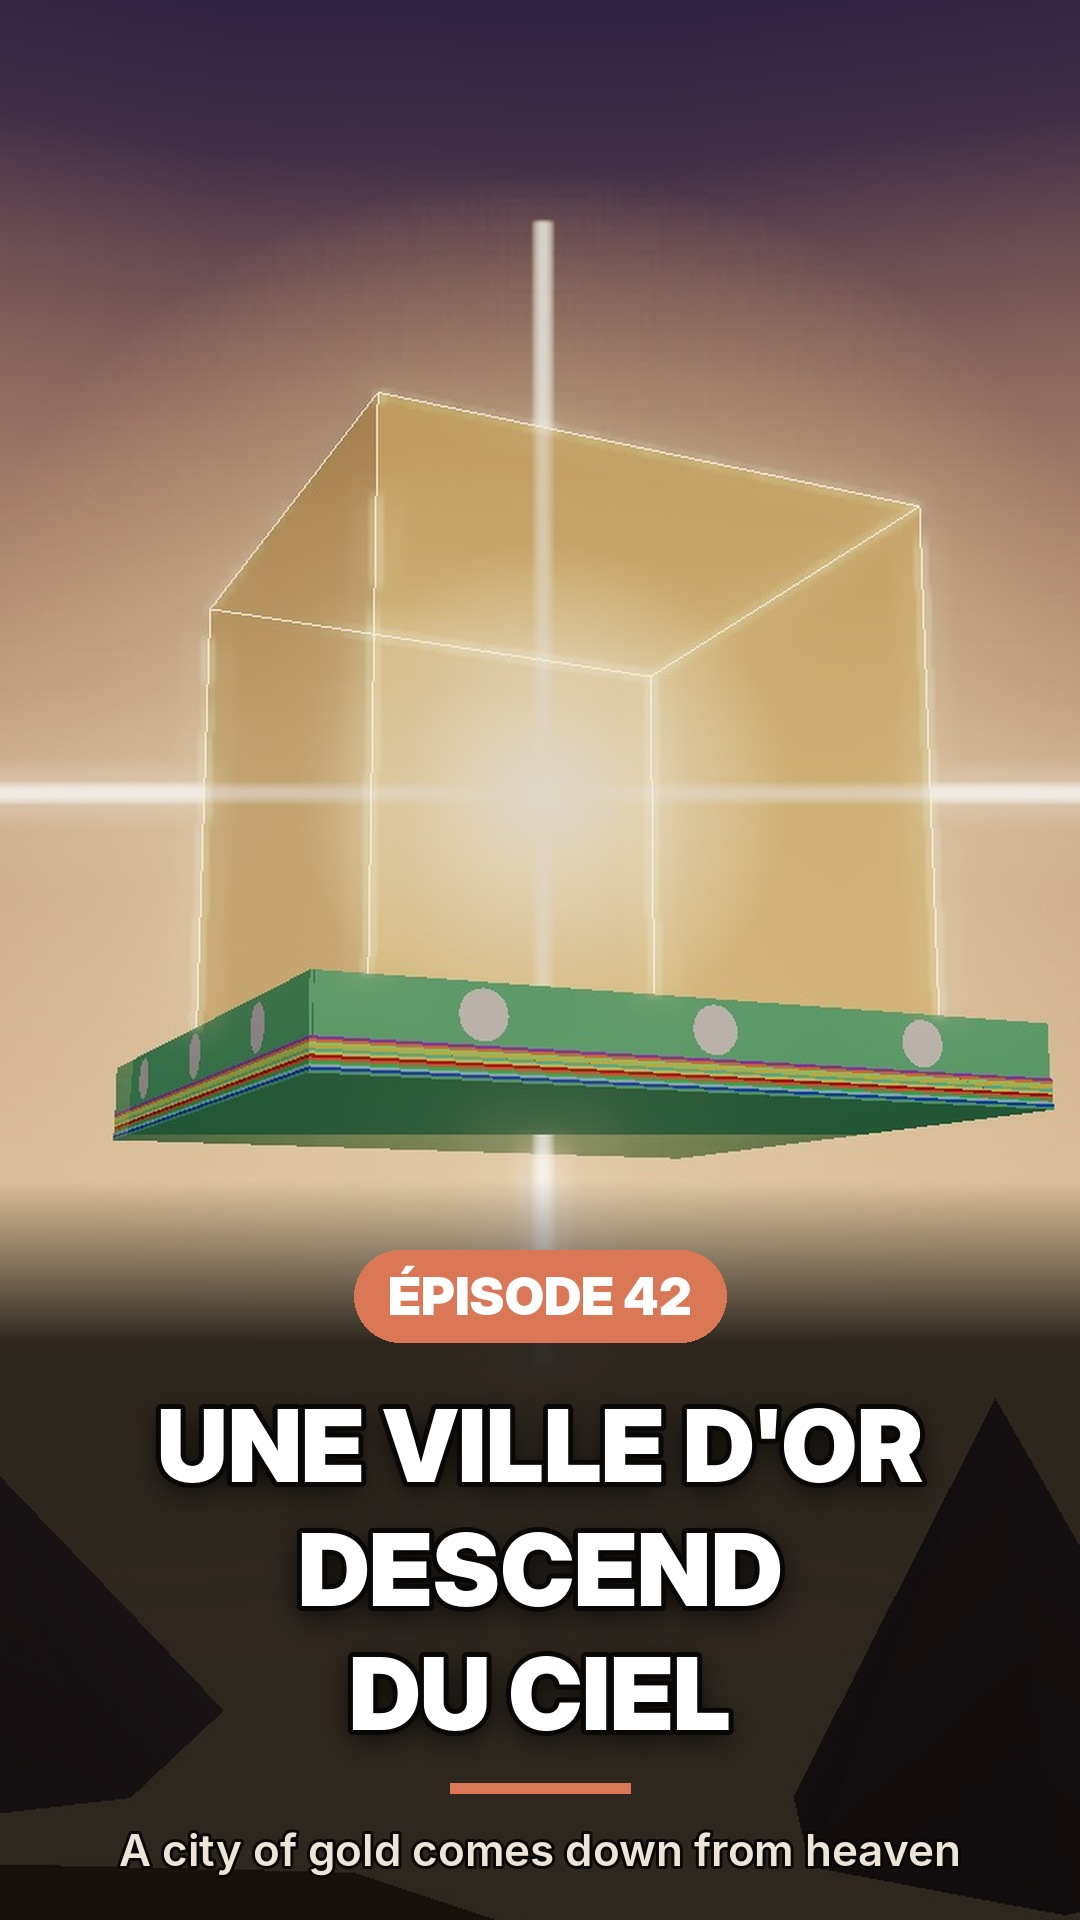
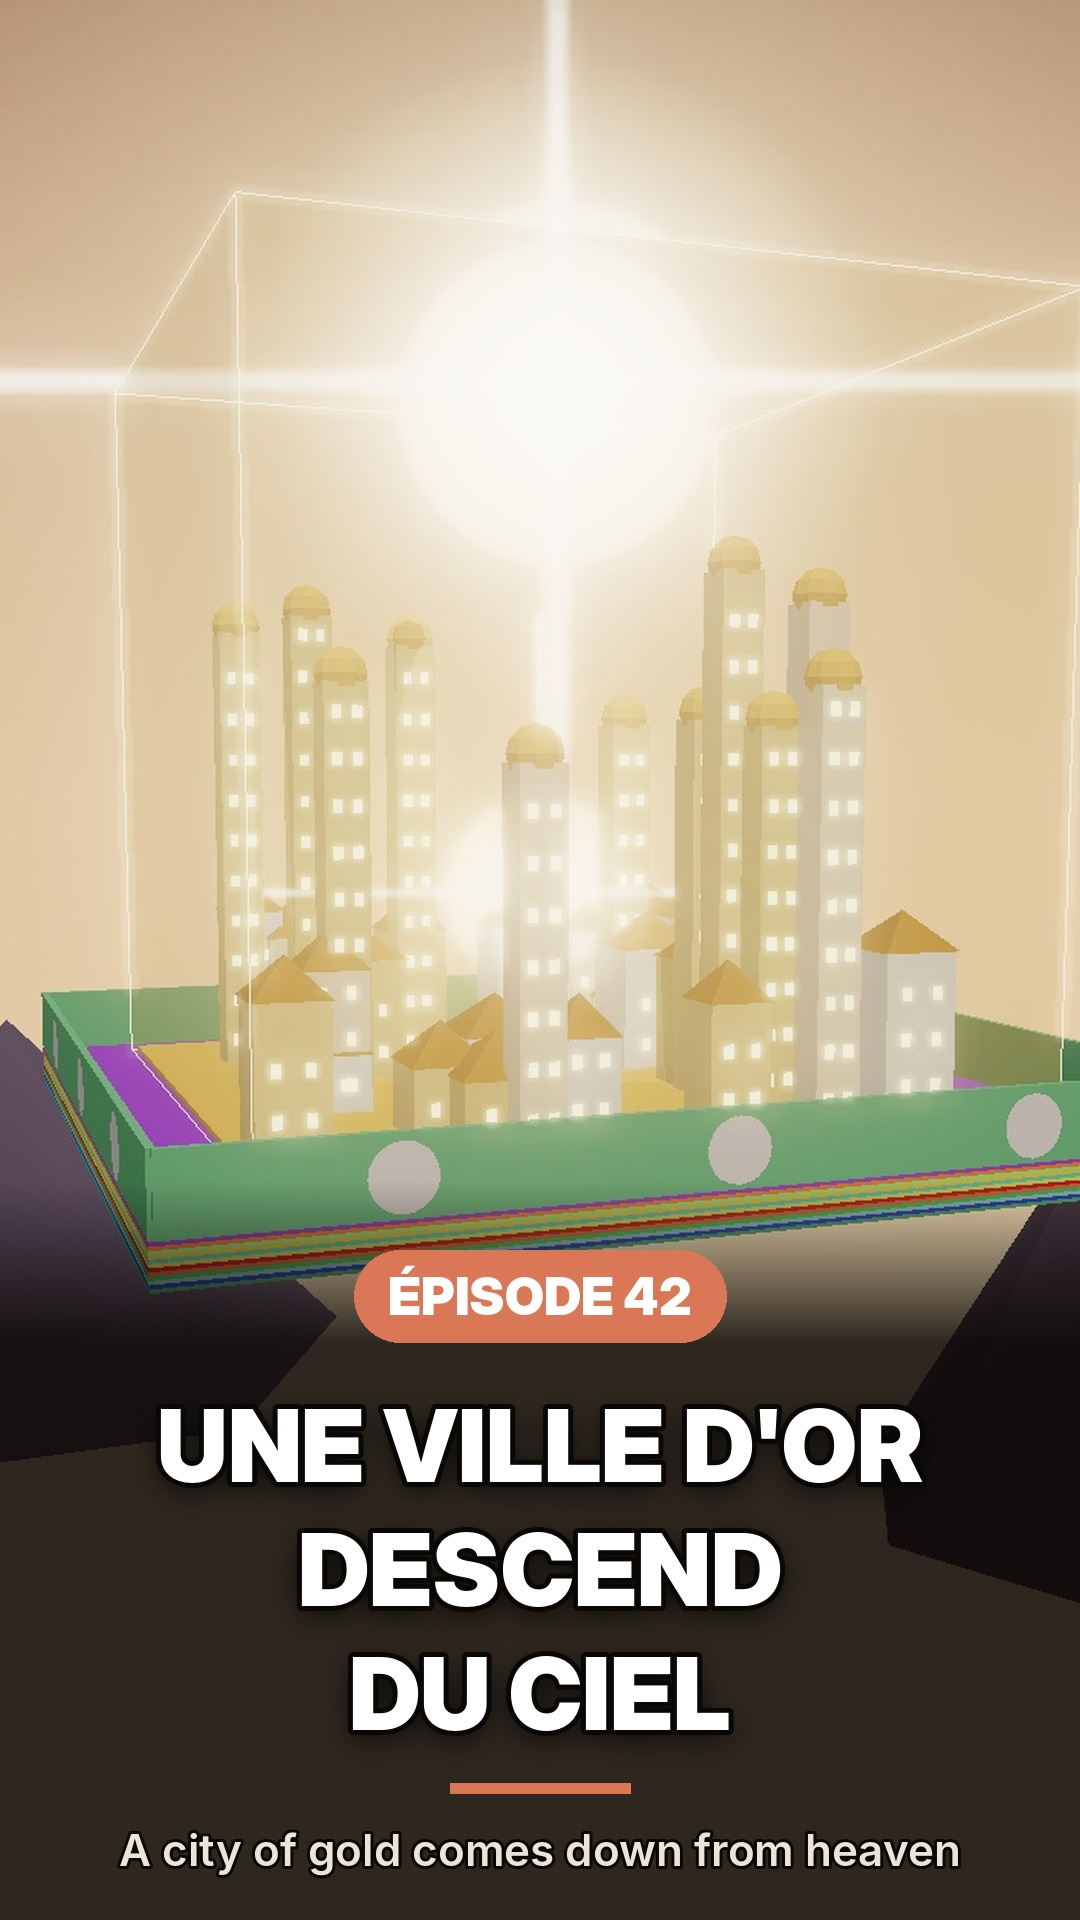
Ep42 : couverture refaite avec la ville visible dans le cube (maisons, tours, fenêtres éclairées)
Claude-Session: https://claude.ai/code/session_01MdC9EGaBDjoz67bNkp4Ljj

diff --git a/ep42/web/body.js b/ep42/web/body.js
@@ -363,9 +363,23 @@ SETS.fin = () => {
 // ---------- couverture : la ville d'or descend au-dessus des nuages
 SETS.cover = () => {
   const B = mountainSet({ bloom: [0.6, 0.5, 0.82] }); const { scene, cam } = B;
-  const city = makeCity(6); city.position.set(0, 3.2, -16); city.rotation.y = 0.5; scene.add(city);
-  const g = glowStar(14, 0xffe8a0); g.position.set(0, 7, -16.5); scene.add(g);
-    return { ...B, update() { cam.position.set(1.4, 1.5, 3.6); cam.fov = 56; cam.updateProjectionMatrix(); cam.lookAt(0, 5.0, -16); } };
+  const city = makeCity(6, { cubeOp: 0.22 }); city.position.set(0, 3.2, -16); city.rotation.y = 0.5; scene.add(city);
+  // la ville a l'interieur du cube : rues d'or, maisons et tours aux fenetres eclairees
+  const town = new THREE.Group(); town.position.y = 0.36; city.add(town);
+  town.add(at(box(5.9, 0.04, 5.9, M(0xffd870, { emissive: new THREE.Color(0x6a4a10) })), 0, 0.02, 0));
+  const win = G(0xfff0b0, 1.6);
+  for (let i = 0; i < 70; i++) {
+    const x = (hash(i * 3) - 0.5) * 5.2, z = (hash(i * 7) - 0.5) * 5.2; if (Math.abs(x) < 0.5 || Math.abs(z) < 0.5) continue;
+    const tall = hash(i * 11) > 0.8, w = tall ? 0.35 : 0.45 + hash(i) * 0.3, h = tall ? 2.2 + hash(i * 5) * 2 : 0.4 + hash(i * 5) * 0.9;
+    const col = [0xfff4dc, 0xffe2a0, 0xf0d890, 0xffffff][i % 4];
+    town.add(at(box(w, h, w, M(col, { emissive: new THREE.Color(col).multiplyScalar(0.18) })), x, h / 2 + 0.04, z));
+    if (!tall) { const r = new THREE.Mesh(new THREE.ConeGeometry(w * 0.75, 0.3, 4), M(0xd8a040)); r.rotation.y = Math.PI / 4; r.position.set(x, h + 0.19, z); town.add(r); }
+    else town.add(at(new THREE.Mesh(new THREE.SphereGeometry(w * 0.6, 10, 6), M(0xffd870, { emissive: new THREE.Color(0x6a4a10) })), x, h + 0.1, z));
+    for (let k = 0; k < Math.floor(h / 0.35); k++) for (const sx of [-1, 1]) town.add(at(box(0.07, 0.1, 0.02, win), x + sx * w * 0.22, 0.25 + k * 0.35, z + w / 2 + 0.01));
+  }
+  const heart = glowStar(5, 0xffffff); heart.position.set(0, 1.6, 0); town.add(heart);
+  const g = glowStar(14, 0xffe8a0); g.position.set(0, 9.5, -17); scene.add(g);
+  return { ...B, update() { cam.position.set(2.2, 6.2, -1.5); cam.fov = 58; cam.updateProjectionMatrix(); cam.lookAt(0, 4.6, -16); } };
 };
 
 const SHOTS = [['intro', 0, SC.montagne.start], ['montagne', SC.montagne.start, SC.portes.start], ['portes', SC.portes.start, SC.mesure.start], ['mesure', SC.mesure.start, SC.pierres.start], ['pierres', SC.pierres.start, SC.temple.start], ['temple', SC.temple.start, SC.fin.start], ['fin', SC.fin.start, 1000], ['cover', 1000, 1e9]];
